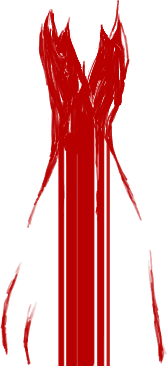
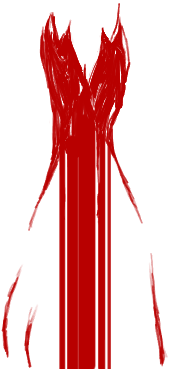
to bring in class
pippin helped me fix the blood problem this morning! he explained how it's because my interval was within a class and since js doesn't keep context I had to write it differently

diff --git a/projects/project2/final/js/classes/room_puzzles/statue/PHand.js b/projects/project2/final/js/classes/room_puzzles/statue/PHand.js
@@ -4,7 +4,8 @@ class PHand extends Puzzle {
     constructor(name, x, y, w, h, shape, img) {
         super(name, x, y, w, h, shape, img);
 
-        this.itemInteracted = false; //has hand been placed?
+        this.itemInteracted = true; //has hand been placed?
+        this.displayHand = false;
         this.interval = null; //setinterval
         this.count = 0; //interval counter
         
@@ -18,7 +19,8 @@ class PHand extends Puzzle {
         if(this.itemInteracted) {
             //start interval for the blood to pour
             canClick = false;
-            this.interval = setInterval(this.bloodpour, 1500);
+            this.displayHand = true;
+            this.interval = setInterval(this.bloodpour.bind(this), 1500)
         }
     }
 
@@ -27,19 +29,20 @@ class PHand extends Puzzle {
         print(this.count);
 
         if(this.count === 3) {
-            let blood = new PBlood('blood', this.x, this.y, 167, 366, 'rect', images.blood3);
+            let blood = new PBlood('blood', 290, height/2-62, 169, 369, 'rect', images.blood3);
             activeScene.puzzleArray.push(blood);
             canClick = true;
-            clearInterval(this.bloodpour);
+            this.itemInteracted = false;
+            clearInterval(this.interval);
         }
     }
 
     display() {
-        //every tick of the counter, add next image from the animation
-        if(this.count === 1) image(this.blood1, this.x, this.y, 83, 122);
-        if(this.count === 2) image(this.blood2, this.x, this.y, 92, 216);
-
         //only display hand once its added
-        if(this.itemInteracted) image(this.img, this.x, this.y, this.width, this.height);
+        if(this.displayHand) image(this.img, this.x, this.y, this.width, this.height);
+
+        //every tick of the counter, add next image from the animation
+        if(this.count === 1) image(this.blood1, 290, height/2-62, 169, 369);
+        if(this.count === 2) image(this.blood2, 290, height/2-62, 169, 369);
     }
 }

diff --git a/projects/project2/final/js/classes/Start.js b/projects/project2/final/js/classes/Start.js
@@ -53,7 +53,7 @@ class Start {
     
         //room 4
         let sc4Array = [];
-        safe = new PSafe('safe', width/2-50, height/2, 120, 120, 'rect', images.safe, images.safe);
+        safe = new PSafe('safe', width/2-50, height/2, 120, 120, 'rect', images.safe1);
         sc4Array.push(safe);
 
         //zoom door
@@ -103,7 +103,14 @@ class Start {
 
         let sc11Array = [];
 
-        this.p.push(sc1Array, sc2Array, sc3Array, sc4Array, sc5Array, sc6Array, sc7Array, sc8Array, sc9Array, sc10Array, sc11Array);
+        let sc12Array = [];
+
+        this.p.push(sc1Array, sc2Array, sc3Array, sc4Array, sc5Array, sc6Array, sc7Array, sc8Array, sc9Array, sc10Array, sc11Array, sc12Array);
+        
+        //window1 219x368
+        //bird 174x115
+        //safe 123x124
+        //yellow cube 80x92
     }
     
     createLocks() {

diff --git a/projects/project2/final/js/classes/room_puzzles/PSafe.js b/projects/project2/final/js/classes/room_puzzles/PSafe.js
@@ -1,15 +1,13 @@
 class PSafe extends Puzzle {
     //unique class for safe, since it has two images and a zoom
 
-    constructor(name, x, y, w, h, shape, img, imgInteracted) {
+    constructor(name, x, y, w, h, shape, img) {
         super(name, x, y, w, h, shape, img);
-        this.imgInteracted = imgInteracted;
         this.open = false;
     }
 
     interact() {
         if(this.open) {
-            if(this.img !== this.imgInteracted) this.img = this.imgInteracted;
             activeScene = sc11;
         }
         else activeScene = sc10;

diff --git a/projects/project2/final/js/classes/room_puzzles/statue/PBlood.js b/projects/project2/final/js/classes/room_puzzles/statue/PBlood.js
@@ -7,7 +7,7 @@ class PBlood extends Puzzle {
 
     interact() {
         //turns the empty cube red when interacted with!
-        let redCube = new Item('redcube', 'doorkey3', images.iredcube);
+        let redCube = new Item('redcube', 'doorkey', images.iredcube);
         redCube.addToInventory();
     }
 

diff --git a/projects/project2/final/js/classes/room_puzzles/PReveal.js b/projects/project2/final/js/classes/room_puzzles/PReveal.js
@@ -4,7 +4,7 @@ class PReveal extends Puzzle {
     constructor(name, x, y, w, h, shape, img, imgInteracted) {
         super(name, x, y, w, h, shape, img);
         this.imgInteracted = imgInteracted;
-        this.itemInteracted = false;
+        this.itemInteracted = true;
     }
 
     interact() {

diff --git a/projects/project2/final/js/classes/room_puzzles/Puzzle.js b/projects/project2/final/js/classes/room_puzzles/Puzzle.js
@@ -15,6 +15,7 @@ class Puzzle {
 
     checkMousePressed() {
         if(this.mouseHover && canClick) {
+            print(`clicked ${this.name}`);
             this.interact();
             cooldown();
         }
